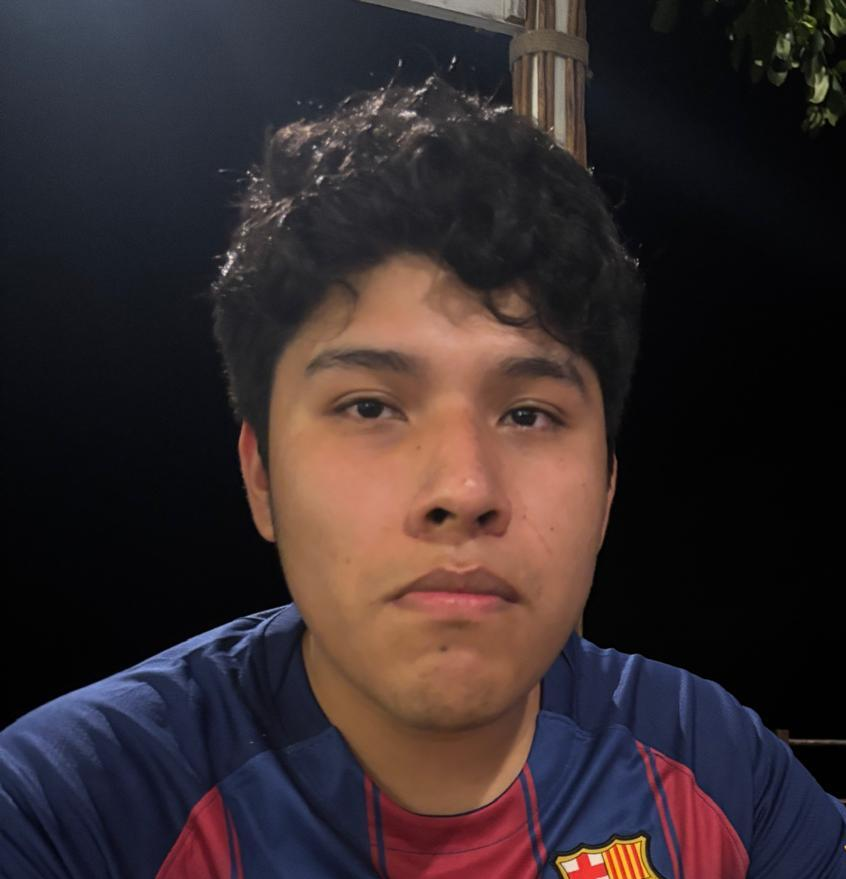
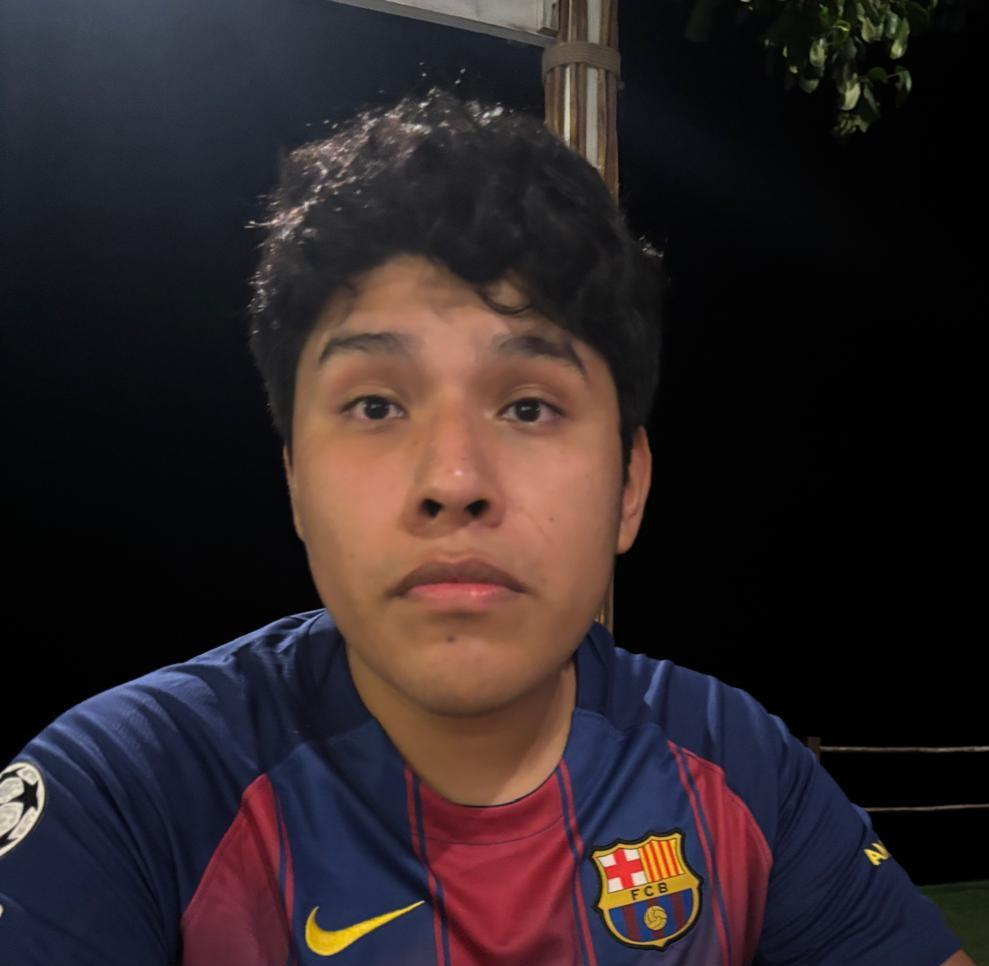
fix errors

diff --git a/frontend/src/components/About.jsx b/frontend/src/components/About.jsx
@@ -7,7 +7,8 @@ import { styles } from "../styles";
 import { services } from "../constants";
 import { fadeIn, textVariant } from "../utils/motion";
 
-import { profile } from "../assets";
+// IMPORTANTE: Asegúrate de importar 'hobby' desde tus assets (junto con profile)
+import { profile, hobby } from "../assets";
 import { SectionWrapper } from "../hoc";
 
 const ServiceCard = ({ index, title, icon }) => {
@@ -17,14 +18,14 @@ const ServiceCard = ({ index, title, icon }) => {
         <Tilt className="xs:w-[250px] w-full">
             <motion.div
                 variants={fadeIn("right", "spring", 0.5 * index, 0.75)}
-                className="w-full ash-teal-gradient p-[1px] rounded-[20px] shadow-card"
+                className="w-full bg-primary-light dark:bg-tertiary rounded-[20px] shadow-card border border-secondary/20 dark:border-white/10 transition-colors duration-300"
             >
                 <div
                     options={{ max: 45, scale: 1, speed: 450 }}
-                    className="bg-primary-light dark:bg-tertiary rounded-[20px] py-5 px-12 min-h-[280px] flex justify-evenly items-center flex-col transition-colors duration-300"
+                    className="rounded-[20px] py-5 px-12 min-h-[280px] flex justify-evenly items-center flex-col"
                 >
                     <img src={icon} alt="service-icon" className="w-16 h-16 object-contain" />
-                    <h3 className="text-text-light dark:text-white text-[20px] font-bold text-center transition-colors duration-300">
+                    <h3 className="text-primary dark:text-white text-[20px] font-bold text-center transition-colors duration-300">
                         {t(title)}
                     </h3>
                 </div>
@@ -39,7 +40,7 @@ const About = () => {
     return (
         <section id="about" className="relative w-full">
 
-            <div className="flex flex-col md:flex-row gap-10 items-center md:items-start">
+            <div className="flex flex-col lg:flex-row gap-14 items-center lg:items-start">
 
                 <div className="flex-1">
                     <motion.div variants={textVariant()}>
@@ -62,29 +63,38 @@ const About = () => {
                         <a
                             href="/cv.pdf"
                             download="Jairo_Nacurena_CV.pdf"
-                            className="bg-jairo-accent text-white py-3 px-8 rounded-xl outline-none w-fit font-bold shadow-md shadow-primary hover:bg-opacity-80 transition-all cursor-pointer"
+                            className="bg-jairo-accent text-white py-3 px-8 rounded-xl outline-none w-fit font-bold shadow-md hover:shadow-lg hover:scale-105 transition-all duration-300 cursor-pointer inline-block"
                         >
                             {t('about.downloadCV')}
                         </a>
                     </motion.div>
                 </div>
 
-                <motion.div
-                    variants={fadeIn("left", "spring", 0.5, 1)}
-                    className="flex-1 flex justify-center items-center mt-10 md:mt-0"
-                >
-                    <div className="w-[250px] sm:w-[300px] h-[250px] sm:h-[300px] rounded-full p-[3px] ash-teal-gradient shadow-card">
-                        <img
+                <div className="flex-1 flex justify-center items-center mt-10 md:mt-0 w-full">
+
+                    <div className="relative w-[280px] h-[320px] sm:w-[400px] sm:h-[450px] mx-auto">
+
+                        <motion.img
+                            variants={fadeIn("right", "spring", 0.5, 1)}
                             src={profile}
-                            alt="Jairo Nacurena"
-                            className="w-full h-full object-cover rounded-full bg-primary-light dark:bg-tertiary"
+                            alt="Jairo Profesional"
+                            className="absolute top-0 left-0 w-[200px] h-[250px] sm:w-[280px] sm:h-[350px] object-cover rounded-2xl shadow-card border-4 border-primary-light dark:border-tertiary z-10 transition-colors duration-300"
                         />
+
+                        <motion.img
+                            variants={fadeIn("left", "spring", 0.7, 1)}
+                            src={hobby}
+                            alt="Jairo Hobby"
+                            className="absolute bottom-0 right-0 w-[150px] h-[150px] sm:w-[220px] sm:h-[220px] object-cover rounded-full shadow-card border-4 border-primary-light dark:border-tertiary z-20 transition-colors duration-300"
+                        />
+
                     </div>
-                </motion.div>
+                </div>
 
             </div>
 
-            <div className="mt-20 flex flex-wrap gap-10 justify-center md:justify-start">
+            {/* TARJETAS DE SERVICIOS */}
+            <div className="mt-20 flex flex-wrap gap-10 justify-center lg:justify-start">
                 {services.map((service, index) => (
                     <ServiceCard key={service.title} index={index} {...service} />
                 ))}

diff --git a/frontend/src/constants/index.js b/frontend/src/constants/index.js
@@ -147,9 +147,9 @@ const projects = [
     name: "projects.list.feest_op_tafel.name",
     description: "projects.list.feest_op_tafel.description",
     tags: [
-      { name: "Laravel", icon: laravel },
       { name: "Tailwind", icon: tailwind },
       { name: "Alpine.js", icon: alpinejs },
+      { name: "Laravel", icon: laravel },
       { name: "Livewire", icon: livewire },
     ],
     image: feestOpTafel, 
@@ -160,9 +160,9 @@ const projects = [
     name: "projects.list.evently.name",
     description: "projects.list.evently.description",
     tags: [
-      { name: "Laravel", icon: laravel },
       { name: "Tailwind", icon: tailwind },
       { name: "Alpine.js", icon: alpinejs },
+      { name: "Laravel", icon: laravel },
       { name: "Livewire", icon: livewire },
     ],
     image: evently, 
@@ -174,9 +174,9 @@ const projects = [
     description: "projects.list.tour_de_france.description",
     tags: [
       { name: "Python", icon: python },
-      { name: "Pandas", icon: pandas },
       { name: "NumPy", icon: numpy },
       { name: "Matplotlib", icon: matplotlib },
+      { name: "Pandas", icon: pandas },
     ],
     image: tourDeFrance, 
     source_code_link: "https://github.com/J41r0Ps/Project_DataScience_2025-2026",

diff --git a/frontend/src/components/Navbar.jsx b/frontend/src/components/Navbar.jsx
@@ -1,4 +1,4 @@
-import React, { useState } from 'react';
+import React, { useState, useEffect } from 'react';
 import { Link } from 'react-router-dom';
 import { useTranslation } from 'react-i18next';
 
@@ -12,6 +12,31 @@ function Navbar() {
   const [active, setActive] = useState("");
   const [toggle, setToggle] = useState(false);
   const { t } = useTranslation();
+
+  useEffect(() => {
+    const handleScroll = () => {
+      const sections = document.querySelectorAll("section[id]");
+      let currentSectionId = "";
+
+      sections.forEach((section) => {
+        const sectionTop = section.offsetTop;
+        const sectionHeight = section.clientHeight;
+        if (window.scrollY >= sectionTop - 100 && window.scrollY < sectionTop + sectionHeight - 100) {
+          currentSectionId = section.getAttribute("id");
+        }
+      });
+
+      const currentLink = navLinks.find(link => link.id === currentSectionId);
+      if (currentLink) {
+        setActive(currentLink.title);
+      } else if (window.scrollY < 50) {
+        setActive("");
+      }
+    };
+
+    window.addEventListener("scroll", handleScroll);
+    return () => window.removeEventListener("scroll", handleScroll);
+  }, []);
 
   return (
     <nav

diff --git a/frontend/src/components/Tech.jsx b/frontend/src/components/Tech.jsx
@@ -14,7 +14,6 @@ function Tech() {
 
   return (
     <>
-      {/* --- TÍTULO PRINCIPAL --- */}
       <motion.div variants={textVariant()} className="mb-10 text-center">
         <p className={`${styles.sectionSubText} text-secondary-light dark:text-secondary transition-colors duration-300`}>
           {t('tech.sectionSubText')}

diff --git a/frontend/src/assets/index.js b/frontend/src/assets/index.js
@@ -9,6 +9,7 @@ import close from "./close.svg";
 import profile from "./profile.jpg";
 import figma from './figma.png';
 import website from './website.png';
+import hobby from './hobby.jpg';
 
 // tech icons
 import html from "./tech/html.png";
@@ -89,4 +90,5 @@ export {
   feestOpTafel,
   evently,
   tourDeFrance,
+  hobby,
 };
